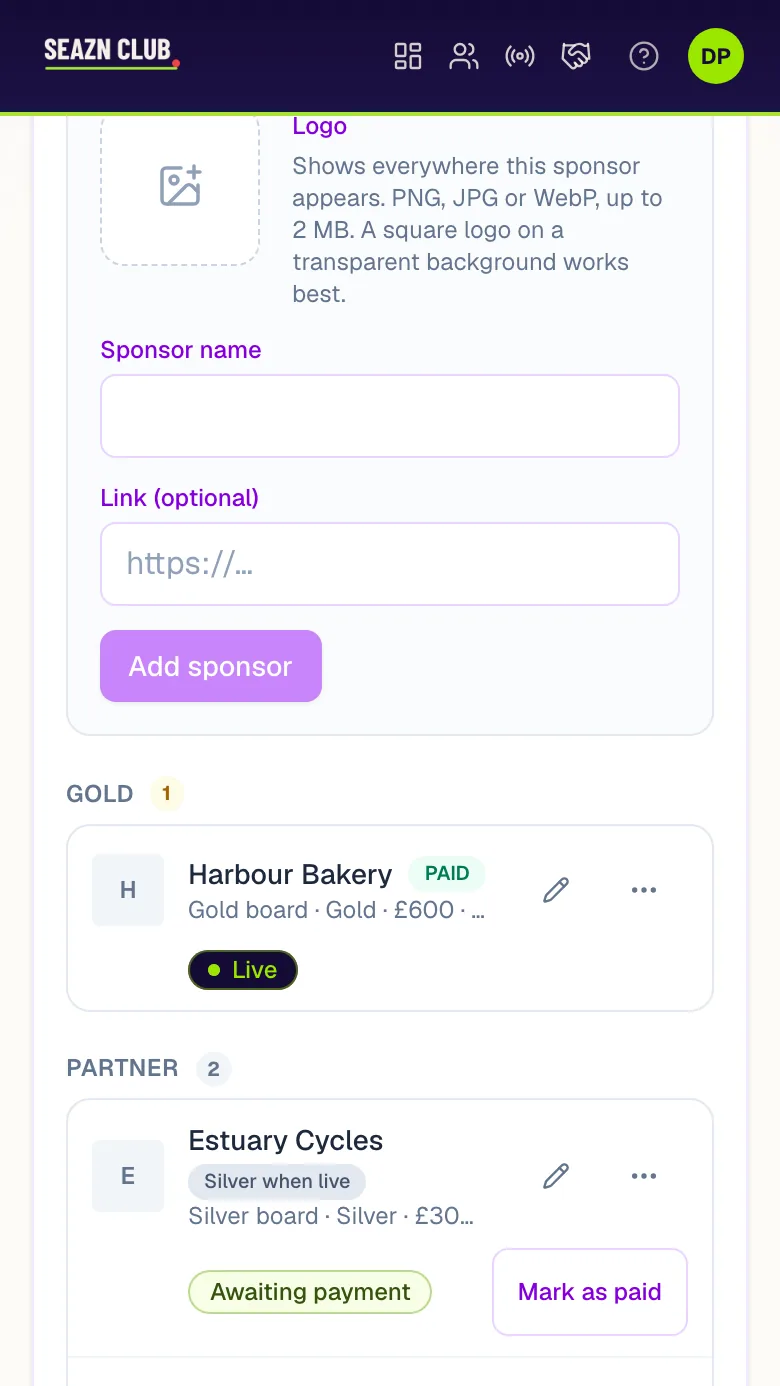
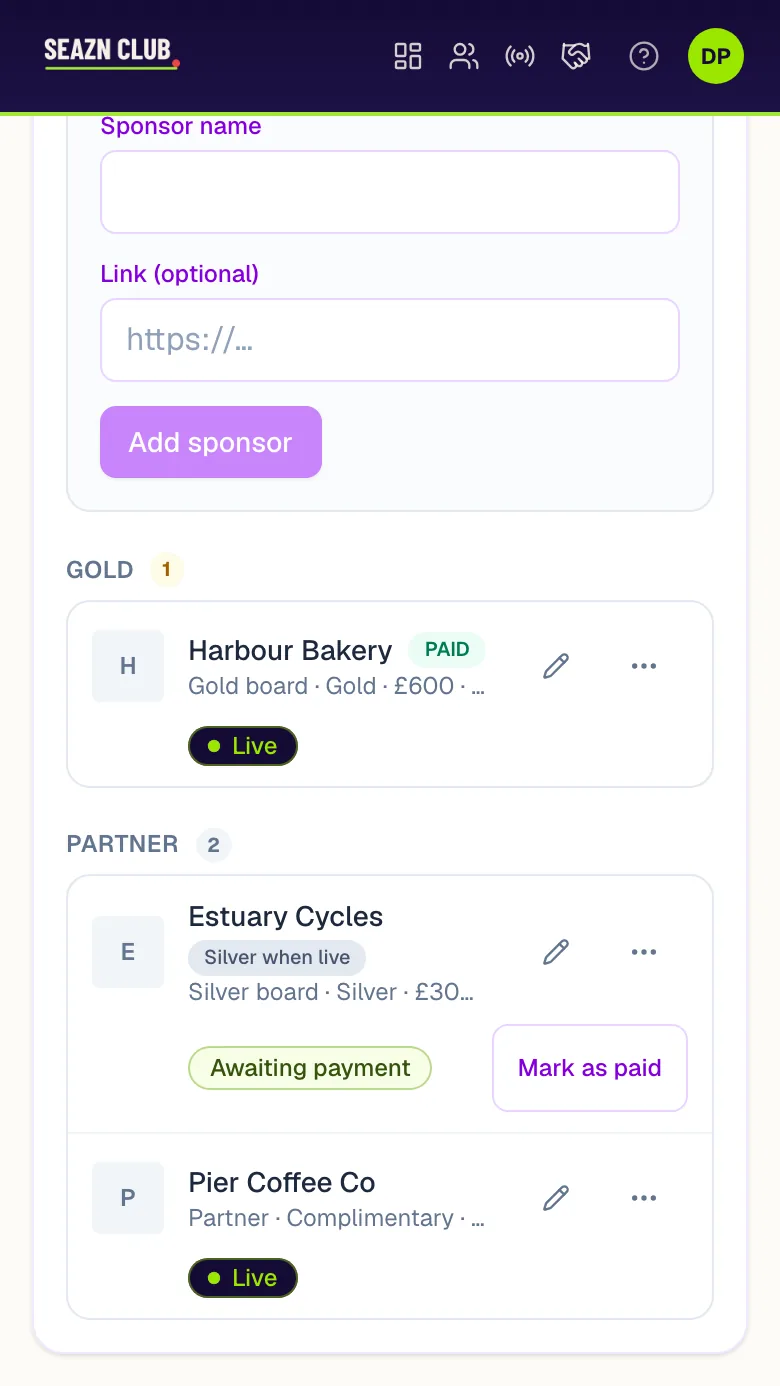
fix(marketing): declare the page language in Content-Language; fuller Sponsoring pictures
The static root layout serves <html lang="en"> for every locale and
script corrects it after load. A server-read locale there would make the
whole app dynamic, so the proxy now also sends Content-Language on every
/{locale} page and on the unprefixed marketing rewrites: a server-side
language signal that needs no script. The html attribute itself is
unchanged.

Sponsoring pictures retaken in the local demo club: the list without the
add form filling the frame, and the report with airings and clicks
instead of zeros.

diff --git a/apps/web/src/__tests__/proxy-i18n.test.ts b/apps/web/src/__tests__/proxy-i18n.test.ts
@@ -77,3 +77,30 @@ describe("marketing [lang] rewrite honors the resolved locale", () => {
     ).toBe("/nl");
   });
 });
+
+/**
+ * The static root layout serves `<html lang="en">` for every locale (app/layout.tsx says why), so the page's language
+ * is also declared in the Content-Language response header, which needs no script and costs no rendering.
+ */
+describe("Content-Language on marketing pages", () => {
+  const lang = (res: Response) => res.headers.get("content-language");
+
+  it("a prefixed marketing URL declares its own locale, whatever the visitor's cookie says", () => {
+    let checked = 0;
+    for (const l of ["en", "fr", "es", "nl"]) for (const path of ["", "/pricing", "/product/match-day", "/sports/cricket", "/sports"]) {
+      expect(lang(proxy(req(`/${l}${path}`, { cookie: "seazn_locale=es" }))), `/${l}${path}`).toBe(l);
+      checked++;
+    }
+    expect(checked).toBe(20);
+  });
+
+  it("an unprefixed marketing URL declares the locale it is served in", () => {
+    expect(lang(proxy(req("/product/match-day")))).toBe("en");
+    expect(lang(proxy(req("/product/match-day", { cookie: "seazn_locale=fr" })))).toBe("fr");
+    expect(lang(proxy(req("/", { acceptLanguage: "nl" })))).toBe("nl");
+  });
+
+  it("pages outside the marketing tree, and a path that only looks like a locale, declare nothing", () => {
+    for (const path of ["/dashboard", "/login", "/help", "/free", "/esports", "/nlx/pricing"]) expect(lang(proxy(req(path))), path).toBeNull();
+  });
+});

diff --git a/apps/web/src/proxy.ts b/apps/web/src/proxy.ts
@@ -248,7 +248,9 @@ function proxyCore(request: NextRequest): NextResponse {
   ) {
     const url = request.nextUrl.clone();
     url.pathname = mp === "/" ? `/${locale}` : `/${locale}${mp}`;
-    return NextResponse.rewrite(url, { request: { headers: requestHeaders } });
+    const rewritten = NextResponse.rewrite(url, { request: { headers: requestHeaders } });
+    rewritten.headers.set("Content-Language", locale);
+    return rewritten;
   }
 
   const rewriteUrl = gamesHostRewrite(request);
@@ -256,6 +258,11 @@ function proxyCore(request: NextRequest): NextResponse {
     ? NextResponse.rewrite(rewriteUrl, { request: { headers: requestHeaders } })
     : NextResponse.next({ request: { headers: requestHeaders } });
   response.headers.set(csp.name, csp.value);
+  // The static root layout serves `<html lang="en">` for every locale (app/layout.tsx), and script corrects it only
+  // after load. A URL under /{locale} says which language the page is in, so the response says it too: a server-side
+  // signal for a reader that runs no script, at no rendering cost.
+  const prefix = mp.split("/")[1] ?? "";
+  if (hasLocale(prefix)) response.headers.set("Content-Language", prefix);
   if (!cacheable) syncSessionHint(request, response);
   return response;
 }
